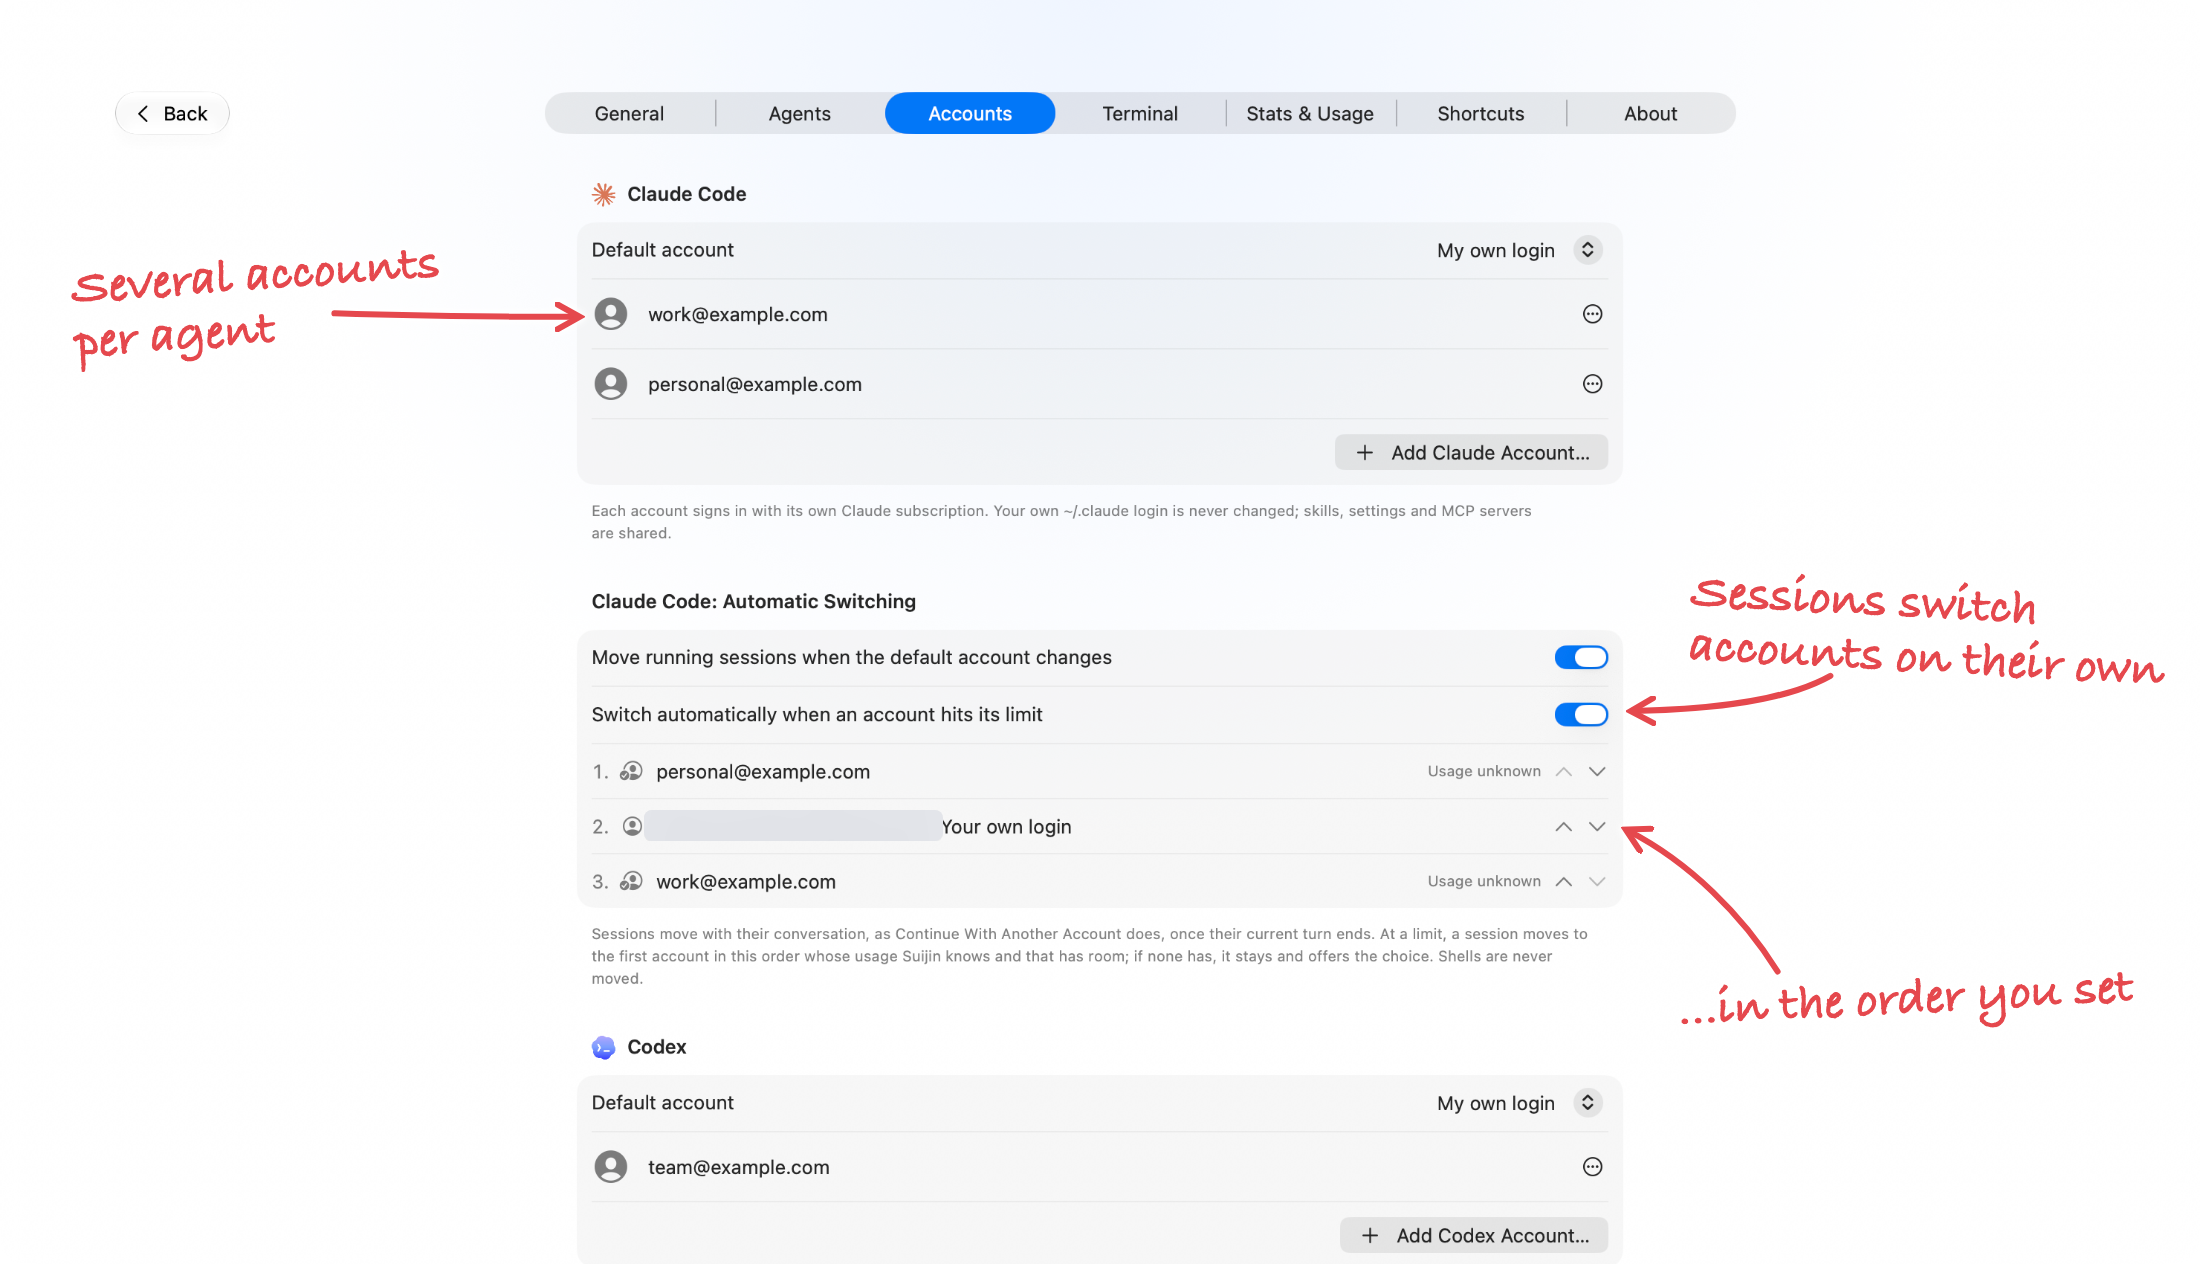
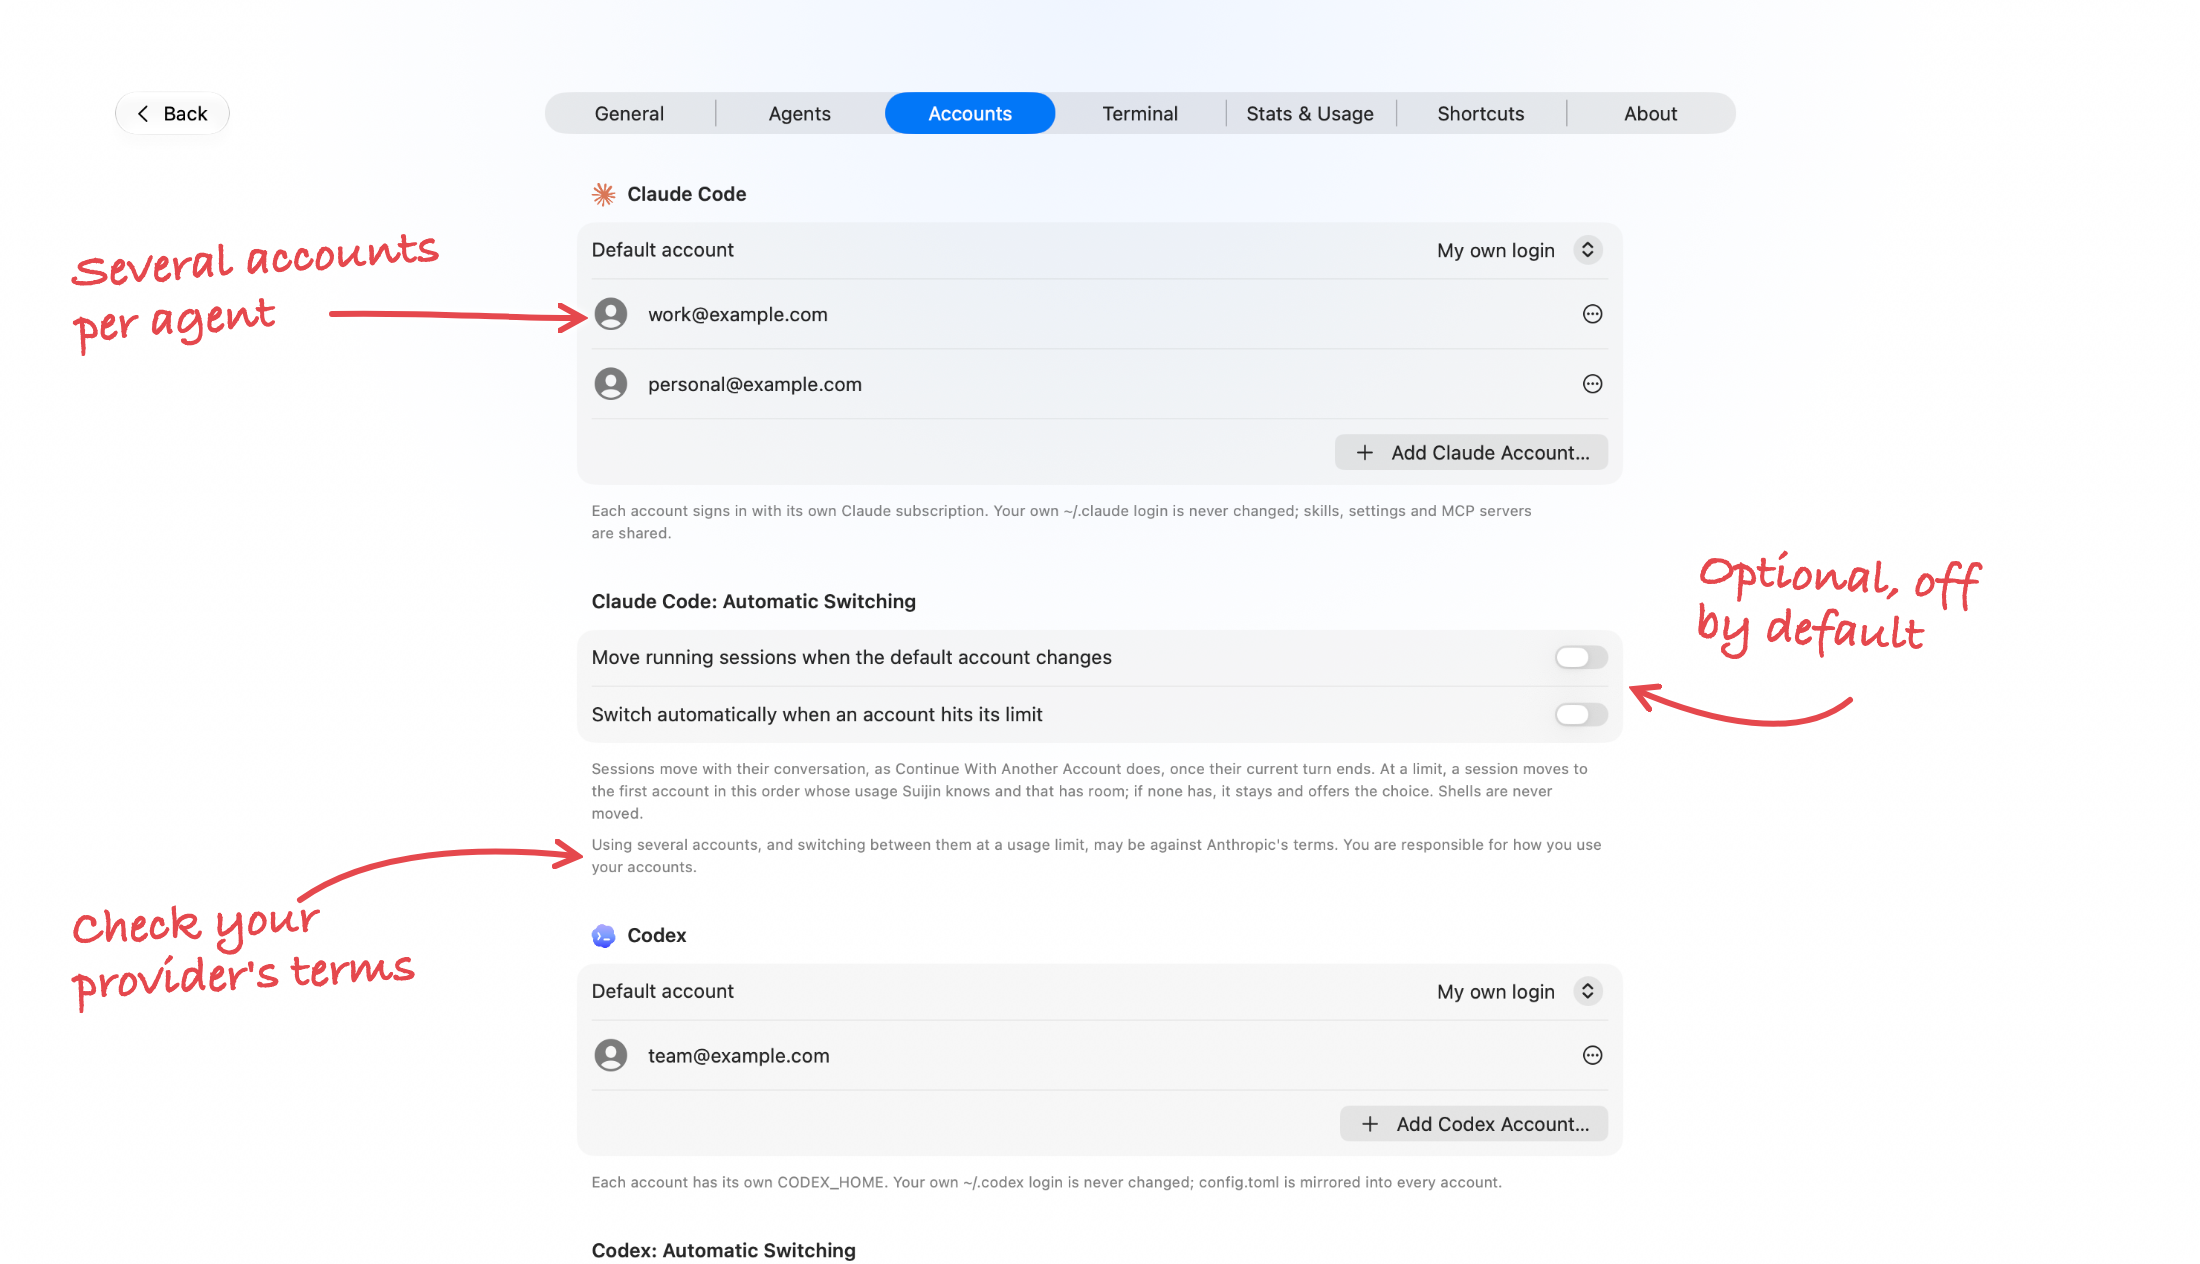
feat: note the providers' terms where accounts are switched and stop selling automatic switching

diff --git a/App/Features/Accounts/AccountsSettingsView.swift b/App/Features/Accounts/AccountsSettingsView.swift
@@ -196,9 +196,15 @@ struct AutoSwitchSettingsSection: View {
         } header: {
             Text(provider == .claude ? "Claude Code: Automatic Switching" : "Codex: Automatic Switching")
         } footer: {
-            Text("Sessions move with their conversation, as Continue With Another Account does, once their current turn ends. At a limit, a session moves to the first account in this order whose usage Suijin knows and that has room; if none has, it stays and offers the choice. Shells are never moved.")
-                .font(.caption)
-                .foregroundStyle(.secondary)
+            VStack(alignment: .leading, spacing: 6) {
+                Text("Sessions move with their conversation, as Continue With Another Account does, once their current turn ends. At a limit, a session moves to the first account in this order whose usage Suijin knows and that has room; if none has, it stays and offers the choice. Shells are never moved.")
+                // The providers' terms, not Suijin, decide whether this is allowed; say so where the choice is made.
+                Text(provider == .claude
+                     ? "Using several accounts, and switching between them at a usage limit, may be against Anthropic's terms. You are responsible for how you use your accounts."
+                     : "Using several accounts, and switching between them at a usage limit, may be against OpenAI's terms. You are responsible for how you use your accounts.")
+            }
+            .font(.caption)
+            .foregroundStyle(.secondary)
         }
     }
 

diff --git a/website/src/styles/global.css b/website/src/styles/global.css
@@ -290,6 +290,9 @@ kbd { font: 600 0.82em var(--sans); border: 1px solid var(--line-strong); border
 html:not(.js) .m-banners { grid-template-rows: 1fr; }
 html:not(.js) .m-banners .m-banner:not(.moved) { display: none; }
 .m-banner.moved { background: rgba(48, 192, 72, 0.16); }
+/* A note that offers a choice: its text, then the button the user presses, wrapping below the text when the pane is narrow. */
+.m-banner.choice { display: flex; flex-wrap: wrap; align-items: center; gap: 6px 10px; padding-block: 5px; }
+.m-banner.choice .m-btn { margin-left: auto; transition: background-color 0.2s, color 0.2s; }
 .m-status { display: flex; align-items: center; gap: 7px; flex: none; height: 28px; padding: 0 12px; overflow: hidden; border-top: 1px solid var(--win-line); color: var(--win-muted); font-size: 10.5px; white-space: nowrap; }
 .m-meter { flex: none; width: 54px; height: 5px; border-radius: 3px; overflow: hidden; background: var(--win-chip); }
 .m-meter i { display: block; height: 100%; border-radius: 3px; background: var(--win-blue); transition: width 0.5s var(--settle, ease), background 0.3s; }

diff --git a/website/src/site.ts b/website/src/site.ts
@@ -58,7 +58,7 @@ export const faq = [
   {
     question: "Can I use more than one Claude or Codex account?",
     answer:
-      "Yes. You can add several managed accounts per agent, choose which one a session uses, and let Suijin move a session to the next account with room when one hits its usage limit. Your own existing logins are never changed.",
+      "Yes. You can add several managed accounts per agent, choose which one a session uses, and continue a conversation on another account yourself, in the same tab. Moving sessions at a usage limit is an option and is off by default. Your own existing logins are never changed. Using several accounts, and switching between them at a usage limit, may be against the terms of Anthropic or OpenAI; check them, because you are responsible for how you use your accounts.",
   },
   {
     question: "What does Suijin send over the network?",

diff --git a/CHANGELOG.md b/CHANGELOG.md
@@ -21,8 +21,9 @@ agent side by side, each in a git worktree of its own.
   the default for each agent, and a session that skips permission checks is confirmed first and marked with a badge.
 - **Multiple accounts.** Add several managed Claude and Codex accounts without touching your own logins, and see
   each plan's usage in the status bar. **Continue With Another Account** carries a conversation to another account
-  when one runs out, and optional automatic switching moves a session to the next account with room when its account
-  hits a limit.
+  when one runs out. Two options, off by default, move sessions for you when the default account changes or when an
+  account hits a usage limit. Settings › Accounts notes that using several accounts this way may be against the
+  provider's terms.
 - **Agent orchestration.** Ask an agent for "Suijin workers" and it starts other Claude Code or Codex agents with the
   bundled `suijin` command, each in a tab of its own, answers their questions and collects their results. Ask it to
   stop a worker and it does (`suijin worker stop`): the worker's terminal ends and its tab closes by itself. Worker

diff --git a/README.md b/README.md
@@ -86,10 +86,12 @@ confirmed first.
 - The status bar shows each plan's usage.
 - **Continue With Another Account** carries a conversation to another account when one runs out, in the same tab,
   folder and permission mode.
-- Optional automatic switching moves a session to the next account with room when its account hits a limit, in an
-  order you set.
+- Two options, both off by default, move sessions for you: when the default account changes, and when an account
+  hits a usage limit (to the next account with room, in an order you set).
+- Using several accounts, and switching between them at a usage limit, may be against the terms of Anthropic or
+  OpenAI. Check them: you are responsible for how you use your accounts. Settings › Accounts says so as well.
 
-![Settings, Accounts: several accounts per agent and automatic switching](docs/screenshots/accounts.png)
+![Settings, Accounts: several accounts per agent, the optional switching settings and the note on provider terms](docs/screenshots/accounts.png)
 
 ### Agent orchestration
 
